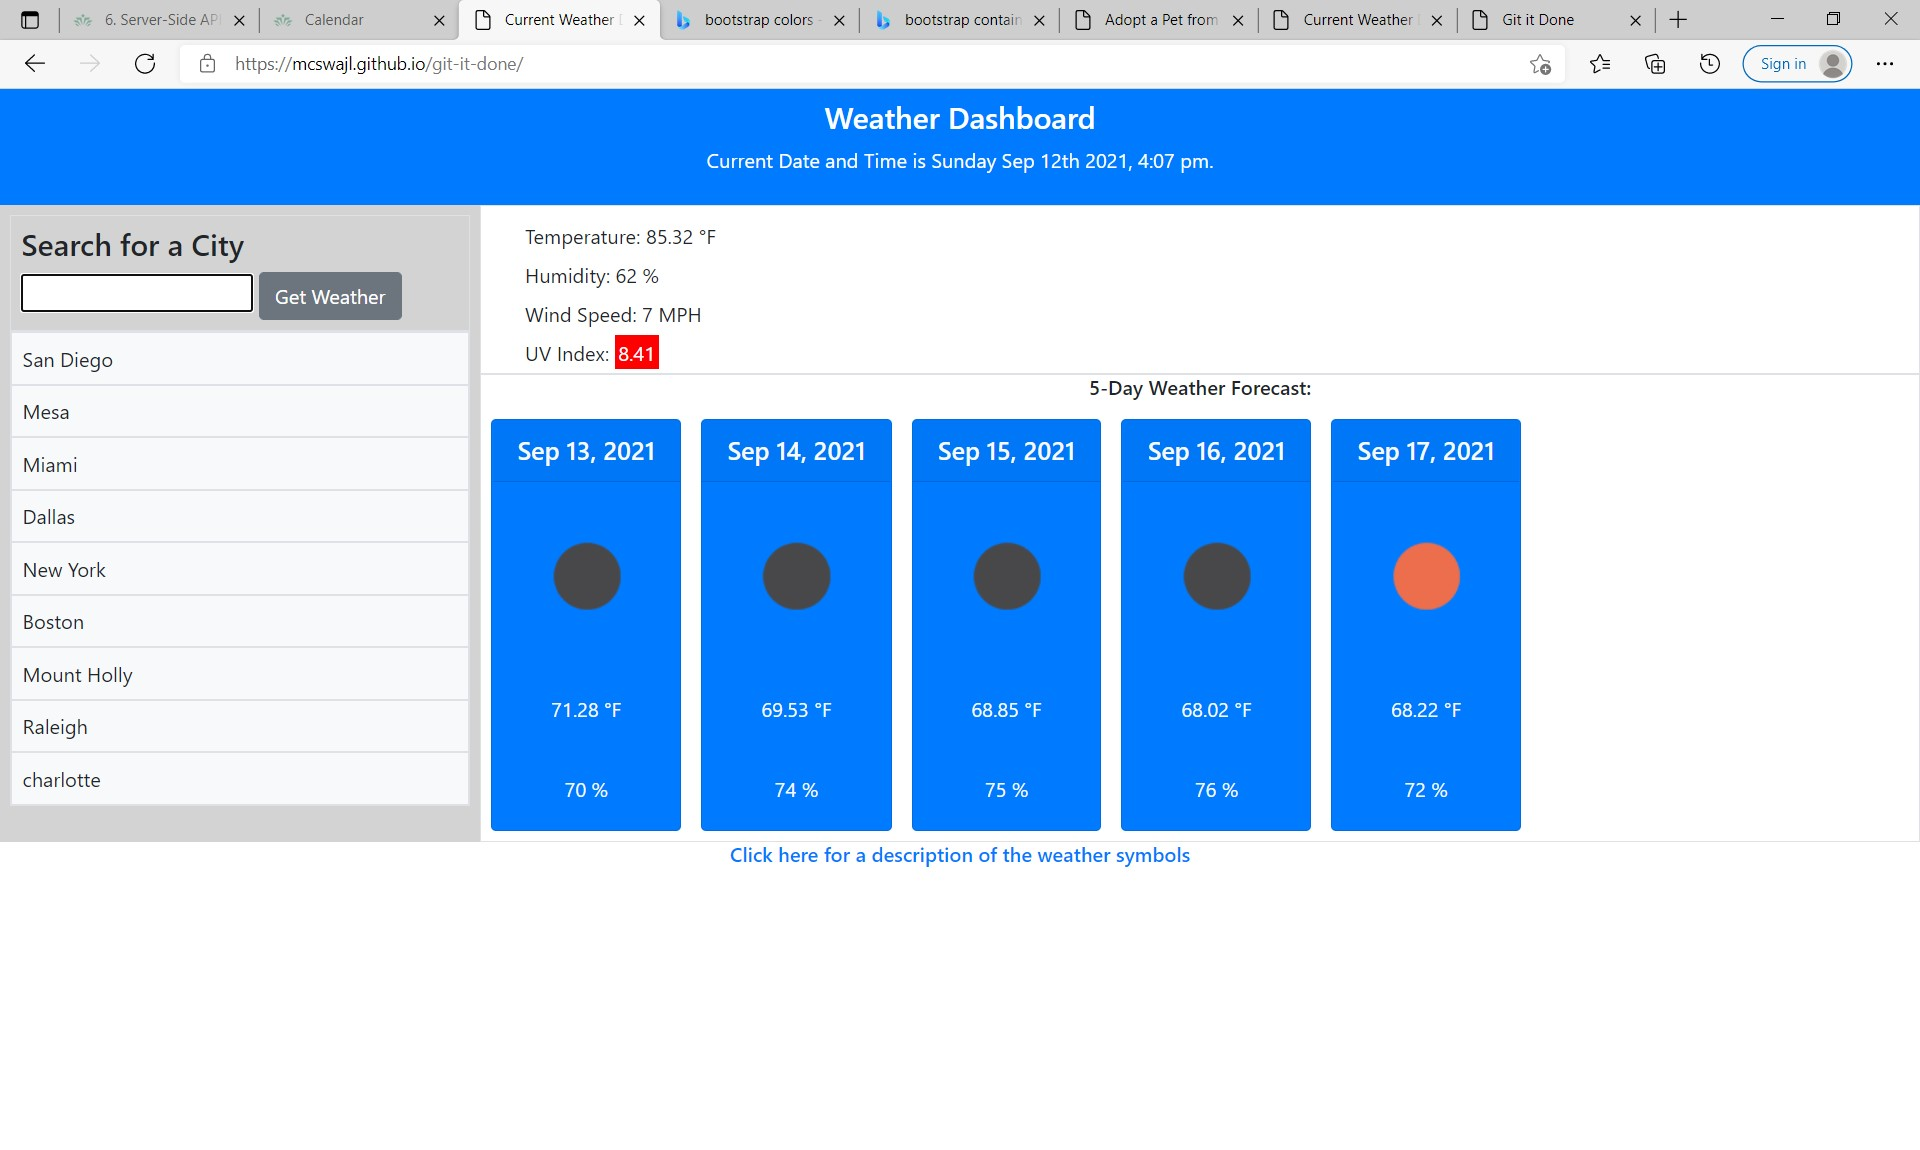
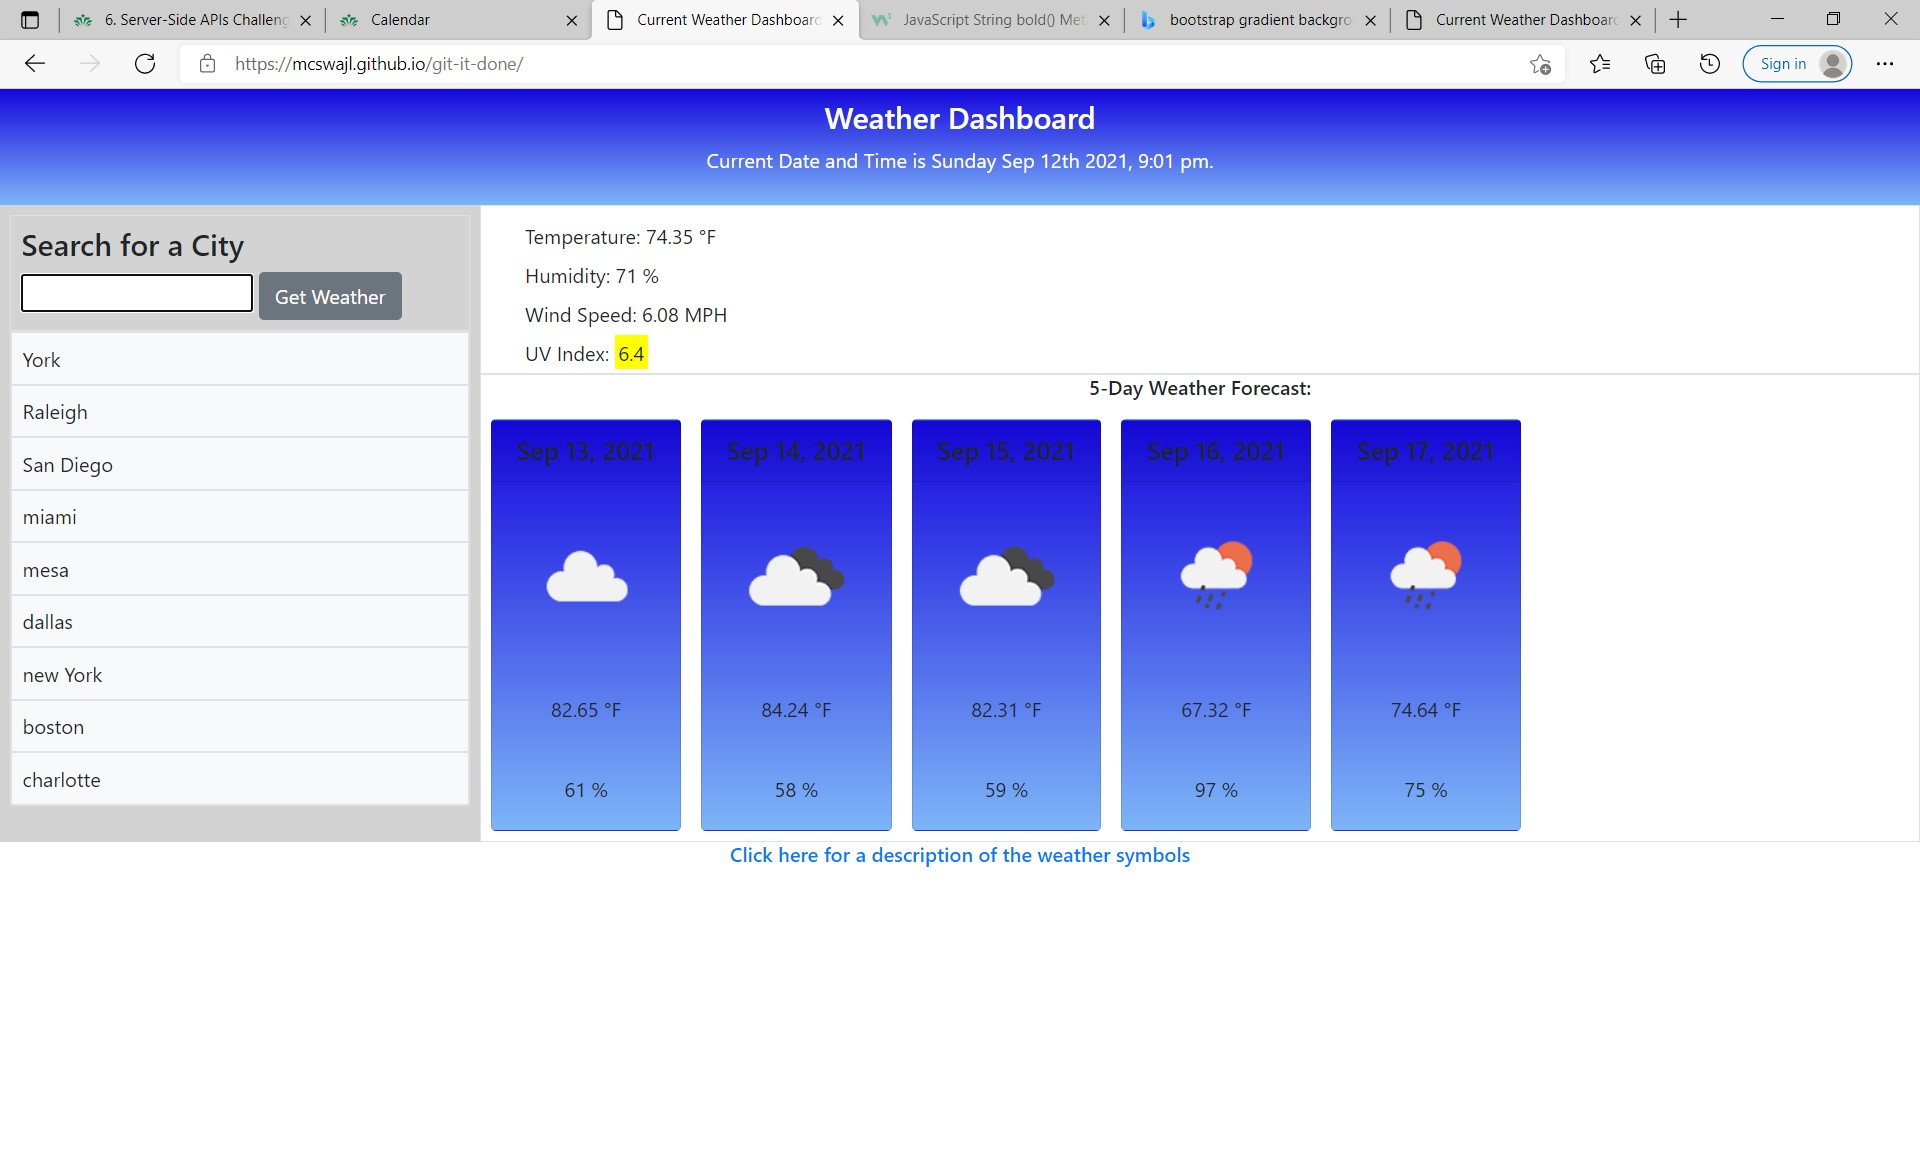
updated my screenshot for my readme

diff --git a/assets/css/style.css b/assets/css/style.css
@@ -7,7 +7,7 @@ h2 {
 }
 
 .bg-primary  {
-  background-image: linear-gradient(rgb(20, 6, 221), rgb(125, 181, 247));
+  background-image: linear-gradient(rgb(21, 14, 121), rgb(76, 90, 219));
 }
 
 p {
